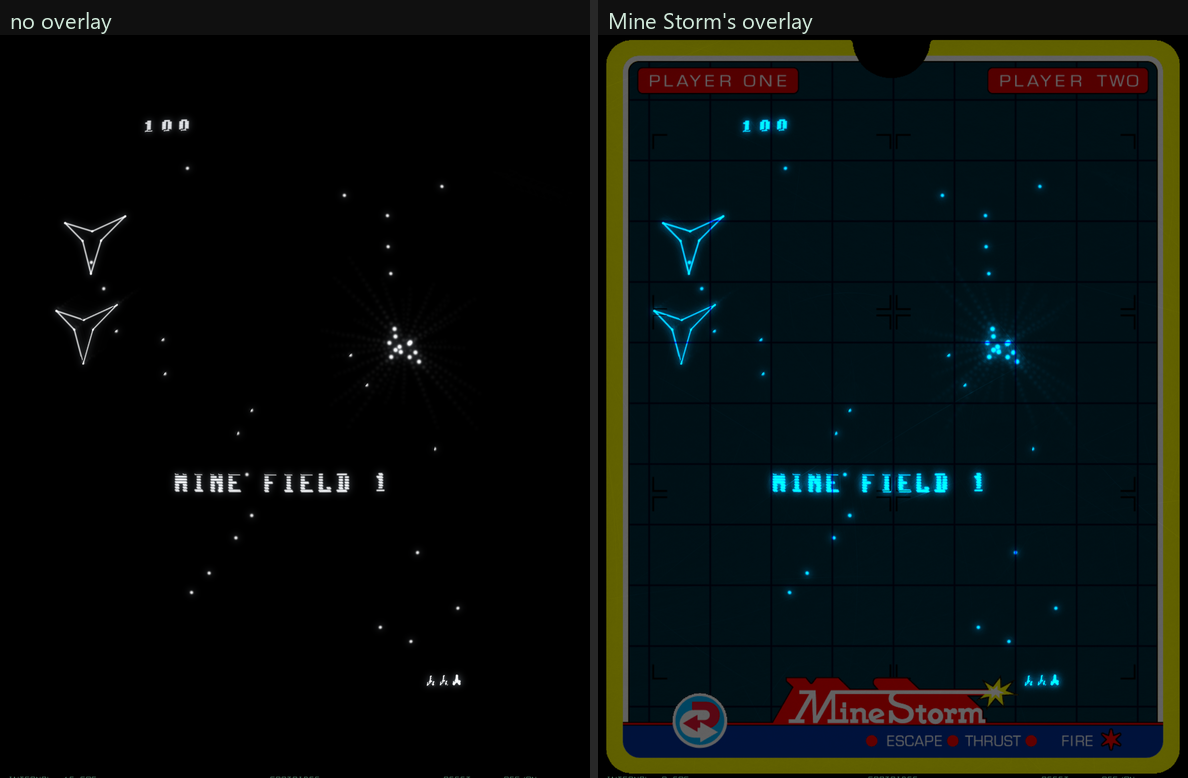
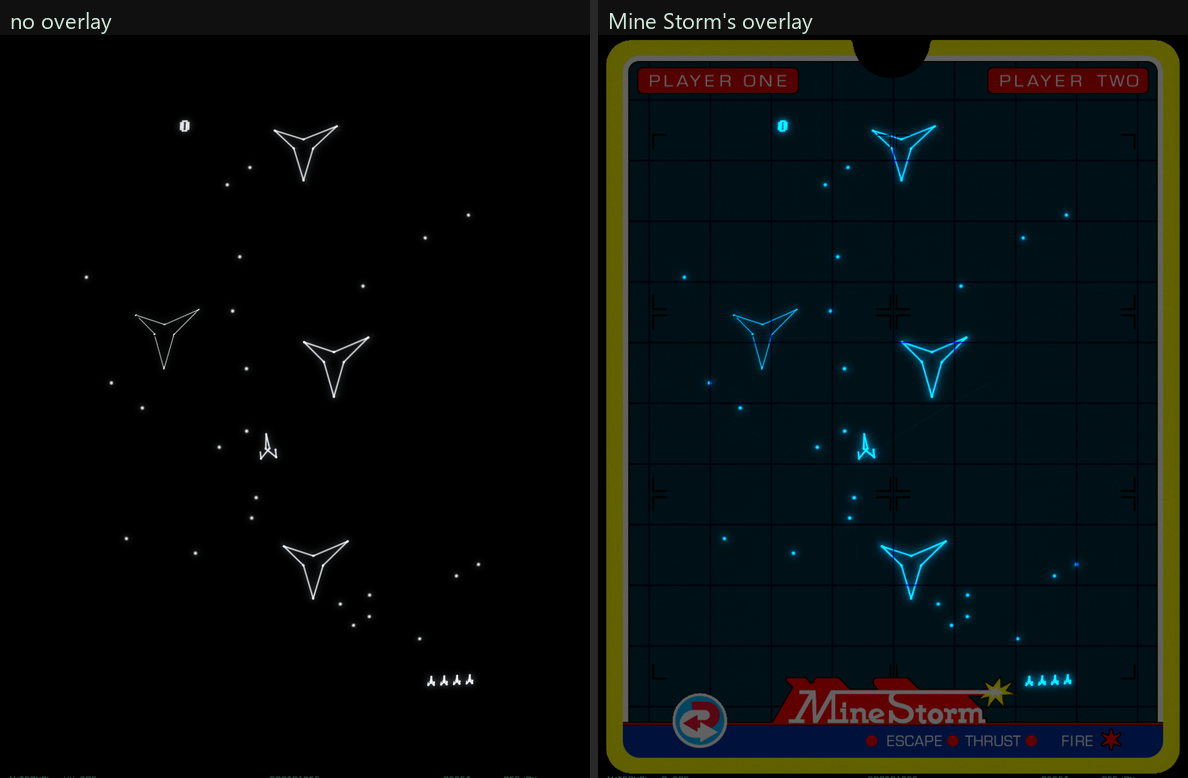
README: the scratch and room light pictures again, with the player's ship among the mines

diff --git a/README.md b/README.md
@@ -259,7 +259,7 @@ the larger ones, **Glint strength** how strongly they catch the light:
 
 <p align="center">
 <img src="docs/images/scratch_sliders.png" width="720" alt="the scratch sliders"><br>
-<em>An exploding mine (2x zoom) with Wear, Damage and Glint strength at 0, 1 (default) and 2.</em>
+<em>Mine Storm's ship and a mine (2x zoom) with Wear, Damage and Glint strength at 0, 1 (default) and 2.</em>
 </p>
 
 ---
